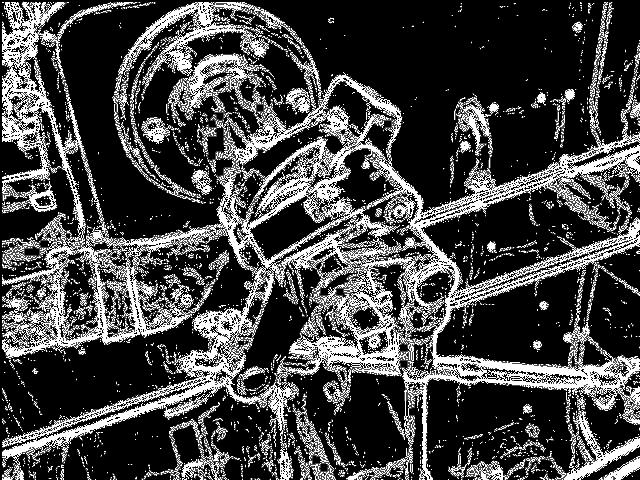
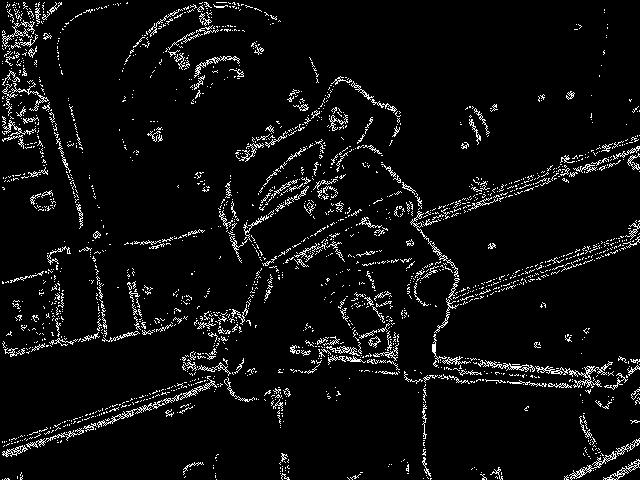
final step

diff --git a/hysteresis_kernel.py b/hysteresis_kernel.py
@@ -1,62 +1,54 @@
-import numpy as np
 from numba import cuda
+import numpy as np
 from PIL import Image
 
-# Device function to check neighboring pixels
-@cuda.jit(device=True)
-def is_connected_to_strong(i, j, edges, strong_val):
-    for di in range(-1, 2):
-        for dj in range(-1, 2):
-            ni, nj = i + di, j + dj
-            if ni >= 0 and ni < edges.shape[0] and nj >= 0 and nj < edges.shape[1]:
-                if edges[ni, nj] == strong_val:
-                    return True
-    return False
+# Load your thresholded image data
+edge_image_path = "./edges_detecteddd.jpg"  # Adjust with your correct path
+edge_image = Image.open(edge_image_path)
+edges = np.array(edge_image, dtype=np.uint8)
 
-# Kernel to apply hysteresis
+# Create output array
+output_edges = np.zeros_like(edges)
+
+# Define the hysteresis CUDA kernel
 @cuda.jit
-def hysteresis_kernel(edge_magnitude, edges_output, low_thresh, high_thresh, strong_val, weak_val):
+def hysteresis_kernel(input_edges, output_edges):
     i, j = cuda.grid(2)
-    if i < edge_magnitude.shape[0] and j < edge_magnitude.shape[1]:
-        if edge_magnitude[i, j] > high_thresh:
-            edges_output[i, j] = strong_val  # Mark as strong edge
-        elif edge_magnitude[i, j] > low_thresh:
-            if is_connected_to_strong(i, j, edges_output, strong_val):
-                edges_output[i, j] = weak_val  # Mark as weak edge if connected to a strong edge
+    if i < input_edges.shape[0] and j < input_edges.shape[1]:
+        if input_edges[i, j] == 255:  # Strong edge
+            output_edges[i, j] = 255
+        elif input_edges[i, j] == 100:  # Weak edge
+            # Check 8-connected neighborhood
+            for di in range(-1, 2):
+                for dj in range(-1, 2):
+                    ni, nj = i + di, j + dj
+                    if 0 <= ni < input_edges.shape[0] and 0 <= nj < input_edges.shape[1]:
+                        if input_edges[ni, nj] == 255:
+                            output_edges[i, j] = 255
+                            break
+                if output_edges[i, j] == 255:
+                    break
+            if output_edges[i, j] != 255:
+                output_edges[i, j] = 0  # Suppress weak edge
         else:
-            edges_output[i, j] = 0  # Mark as non-edge
+            output_edges[i, j] = 0  # Non-edge
 
-def apply_hysteresis(edge_magnitude, low_threshold, high_threshold, strong_val=255, weak_val=75):
-    # Initialize output array
-    edges_output = np.zeros_like(edge_magnitude, dtype=np.uint8)
+# Configuration for kernel execution
+threads_per_block = (16, 16)
+blocks_per_grid_x = (edges.shape[0] + threads_per_block[0] - 1) // threads_per_block[0]
+blocks_per_grid_y = (edges.shape[1] + threads_per_block[1] - 1) // threads_per_block[1]
+blocks_per_grid = (blocks_per_grid_x, blocks_per_grid_y)
 
-    # Define grid and block dimensions
-    threads_per_block = (16, 16)
-    blocks_per_grid_x = (edge_magnitude.shape[0] + threads_per_block[0] - 1) // threads_per_block[0]
-    blocks_per_grid_y = (edge_magnitude.shape[1] + threads_per_block[1] - 1) // threads_per_block[1]
-    blocks_per_grid = (blocks_per_grid_x, blocks_per_grid_y)
+# Prepare data on the device
+edges_device = cuda.to_device(edges)
+output_device = cuda.to_device(output_edges)
 
-    # Prepare data on device
-    d_edge_magnitude = cuda.to_device(edge_magnitude)
-    d_edges_output = cuda.to_device(edges_output)
+# Launch the kernel
+hysteresis_kernel[blocks_per_grid, threads_per_block](edges_device, output_device)
 
-    # Launch kernel
-    hysteresis_kernel[blocks_per_grid, threads_per_block](d_edge_magnitude, d_edges_output, low_threshold, high_threshold, strong_val, weak_val)
+# Copy back to host and save/display the result
+output_edges = output_device.copy_to_host()
+result_image = Image.fromarray(output_edges)
+result_image.save("./hysteresis_output.jpg")
 
-    # Copy result back to host
-    d_edges_output.copy_to_host(edges_output)
-    return edges_output
 
-# Example of loading an image and applying hysteresis
-if __name__ == "__main__":
-    image_path = "./edges_detecteddd.jpg"  # Update with your image path
-    image = Image.open(image_path)
-    image_array = np.array(image.convert('L'))  # Convert to grayscale
-    edge_magnitude = np.abs(np.float32(image_array))  # Simulate an edge magnitude array
-
-    # Apply hysteresis
-    edges_output = apply_hysteresis(edge_magnitude, 50, 100)
-
-    # Save or show result
-    output_image = Image.fromarray(edges_output)
-    output_image.save("hysteresis_output.jpg")  # Save the output image
